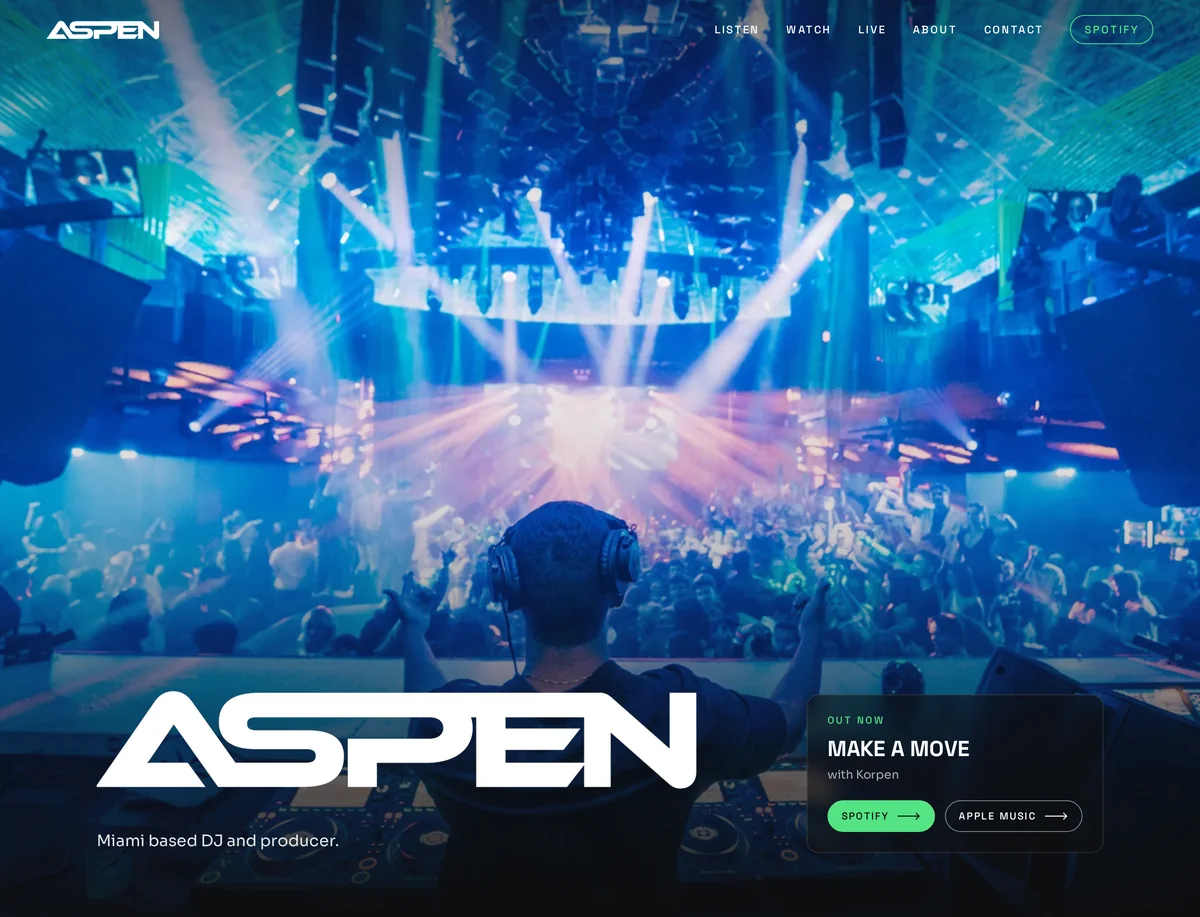
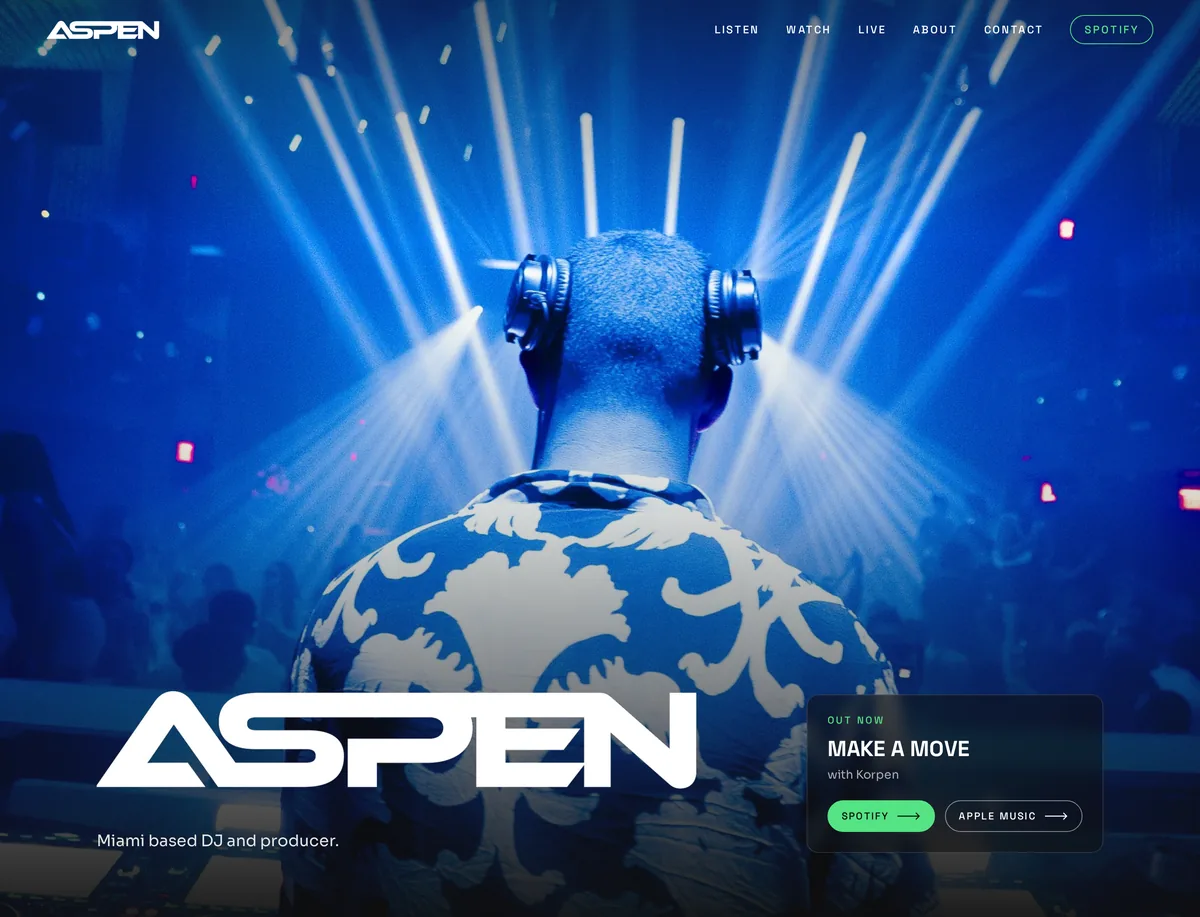
Point Aspen's work cards at the live site and refresh the homepage shots
Aspen approved the final site at aspen-music.com. The Work and Musicians cards now link there, use the current blue-beams hero, and say See the site instead of See the preview.

diff --git a/musicians.html b/musicians.html
@@ -111,15 +111,15 @@
       <p class="k">For musicians</p>
       <h1>A site that holds the music.</h1>
       <p>The music, the calendar, and the story. I keep it current.</p>
-      <div class="actions"><a class="btn" href="/contact?type=musician">Start your site</a><a class="link" href="https://aspen-mjl.vercel.app" target="_blank" rel="noopener">See Aspen&rsquo;s preview</a></div>
+      <div class="actions"><a class="btn" href="/contact?type=musician">Start your site</a><a class="link" href="https://www.aspen-music.com" target="_blank" rel="noopener">See Aspen&rsquo;s site</a></div>
     </div></section>
     <section class="rooms flow" aria-label="Musician site">
       <article class="room" id="aspen">
         <div class="room-in">
-          <div class="room-art has-p"><a class="plate d" href="https://aspen-mjl.vercel.app" target="_blank" rel="noopener"><picture><img src="/assets/shots/aspen-home-d-1800.webp" srcset="/assets/shots/aspen-home-d-1200.webp 1200w, /assets/shots/aspen-home-d-1800.webp 1800w, /assets/shots/aspen-home-d-2880.webp 2880w" sizes="(min-width: 901px) min(60vw, 1000px), 100vw" alt="The Aspen home page: a view from the decks over a club, with the Aspen wordmark" width="1440" height="1100" loading="lazy" decoding="async"></picture></a><a class="plate p" href="https://aspen-mjl.vercel.app" target="_blank" rel="noopener" tabindex="-1"><picture><img src="/assets/shots/aspen-home-p-720.webp" srcset="/assets/shots/aspen-home-p-360.webp 360w, /assets/shots/aspen-home-p-720.webp 720w, /assets/shots/aspen-home-p-1080.webp 1080w" sizes="(min-width: 901px) 240px, calc(0.6 * (100vw - 2 * clamp(20px, 5vw, 72px)))" alt="The Aspen home page on a phone" width="390" height="844" loading="lazy" decoding="async"></picture></a></div>
+          <div class="room-art has-p"><a class="plate d" href="https://www.aspen-music.com" target="_blank" rel="noopener"><picture><img src="/assets/shots/aspen-home-d-1800.webp?v=20261116" srcset="/assets/shots/aspen-home-d-1200.webp?v=20261116 1200w, /assets/shots/aspen-home-d-1800.webp?v=20261116 1800w, /assets/shots/aspen-home-d-2880.webp?v=20261116 2880w" sizes="(min-width: 901px) min(60vw, 1000px), 100vw" alt="The Aspen home page: ASPEN at the decks from behind under blue beams, wearing a print shirt" width="1440" height="1100" loading="lazy" decoding="async"></picture></a><a class="plate p" href="https://www.aspen-music.com" target="_blank" rel="noopener" tabindex="-1"><picture><img src="/assets/shots/aspen-home-p-720.webp?v=20261116" srcset="/assets/shots/aspen-home-p-360.webp?v=20261116 360w, /assets/shots/aspen-home-p-720.webp?v=20261116 720w, /assets/shots/aspen-home-p-1080.webp?v=20261116 1080w" sizes="(min-width: 901px) 240px, calc(0.6 * (100vw - 2 * clamp(20px, 5vw, 72px)))" alt="The Aspen home page on a phone" width="390" height="844" loading="lazy" decoding="async"></picture></a></div>
           <div class="room-words">
             <h2>Aspen</h2>
-            <a class="link" href="https://aspen-mjl.vercel.app" target="_blank" rel="noopener">See the preview</a>
+            <a class="link" href="https://www.aspen-music.com" target="_blank" rel="noopener">See the site</a>
           </div>
         </div>
       </article>

diff --git a/work.html b/work.html
@@ -106,10 +106,10 @@
       </article>
       <article class="room flip" id="aspen">
         <div class="room-in">
-          <div class="room-art has-p"><a class="plate d" href="https://aspen-mjl.vercel.app" target="_blank" rel="noopener"><picture><img src="/assets/shots/aspen-home-d-1800.webp" srcset="/assets/shots/aspen-home-d-1200.webp 1200w, /assets/shots/aspen-home-d-1800.webp 1800w, /assets/shots/aspen-home-d-2880.webp 2880w" sizes="(min-width: 901px) min(60vw, 1000px), 100vw" alt="The Aspen home page: a view from the decks over a club, with the Aspen wordmark" width="1440" height="1100" loading="lazy" decoding="async"></picture></a><a class="plate p" href="https://aspen-mjl.vercel.app" target="_blank" rel="noopener" tabindex="-1"><picture><img src="/assets/shots/aspen-home-p-720.webp" srcset="/assets/shots/aspen-home-p-360.webp 360w, /assets/shots/aspen-home-p-720.webp 720w, /assets/shots/aspen-home-p-1080.webp 1080w" sizes="(min-width: 901px) 240px, calc(0.6 * (100vw - 2 * clamp(20px, 5vw, 72px)))" alt="The Aspen home page on a phone" width="390" height="844" loading="lazy" decoding="async"></picture></a></div>
+          <div class="room-art has-p"><a class="plate d" href="https://www.aspen-music.com" target="_blank" rel="noopener"><picture><img src="/assets/shots/aspen-home-d-1800.webp?v=20261116" srcset="/assets/shots/aspen-home-d-1200.webp?v=20261116 1200w, /assets/shots/aspen-home-d-1800.webp?v=20261116 1800w, /assets/shots/aspen-home-d-2880.webp?v=20261116 2880w" sizes="(min-width: 901px) min(60vw, 1000px), 100vw" alt="The Aspen home page: ASPEN at the decks from behind under blue beams, wearing a print shirt" width="1440" height="1100" loading="lazy" decoding="async"></picture></a><a class="plate p" href="https://www.aspen-music.com" target="_blank" rel="noopener" tabindex="-1"><picture><img src="/assets/shots/aspen-home-p-720.webp?v=20261116" srcset="/assets/shots/aspen-home-p-360.webp?v=20261116 360w, /assets/shots/aspen-home-p-720.webp?v=20261116 720w, /assets/shots/aspen-home-p-1080.webp?v=20261116 1080w" sizes="(min-width: 901px) 240px, calc(0.6 * (100vw - 2 * clamp(20px, 5vw, 72px)))" alt="The Aspen home page on a phone" width="390" height="844" loading="lazy" decoding="async"></picture></a></div>
           <div class="room-words">
             <h2>Aspen</h2>
-            <a class="link" href="https://aspen-mjl.vercel.app" target="_blank" rel="noopener">See the preview</a>
+            <a class="link" href="https://www.aspen-music.com" target="_blank" rel="noopener">See the site</a>
           </div>
         </div>
       </article>
